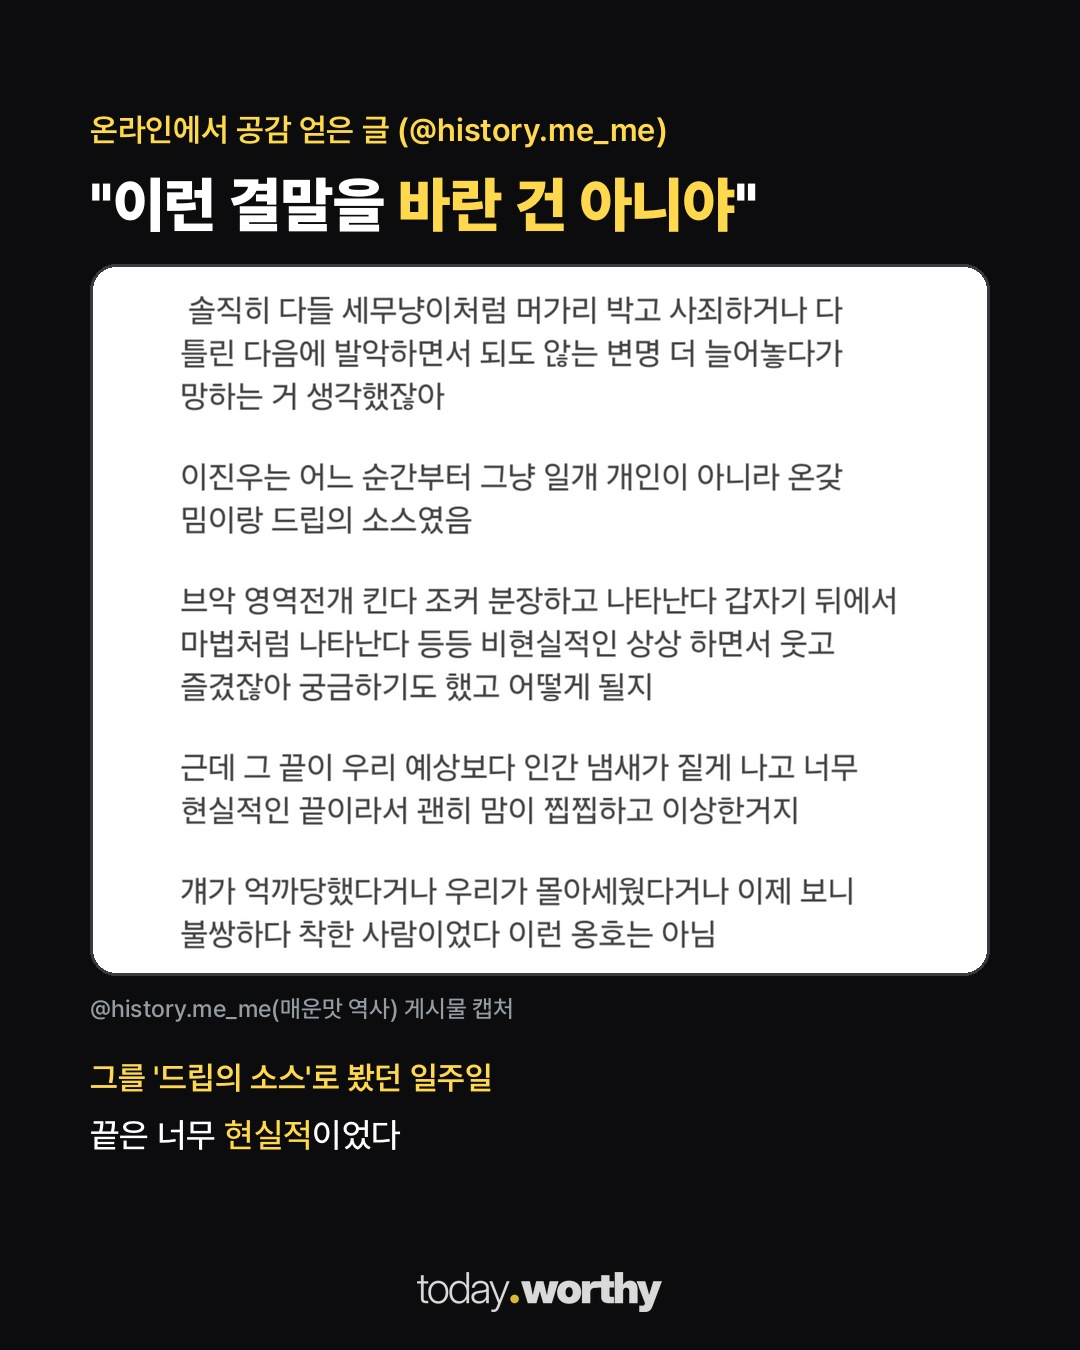
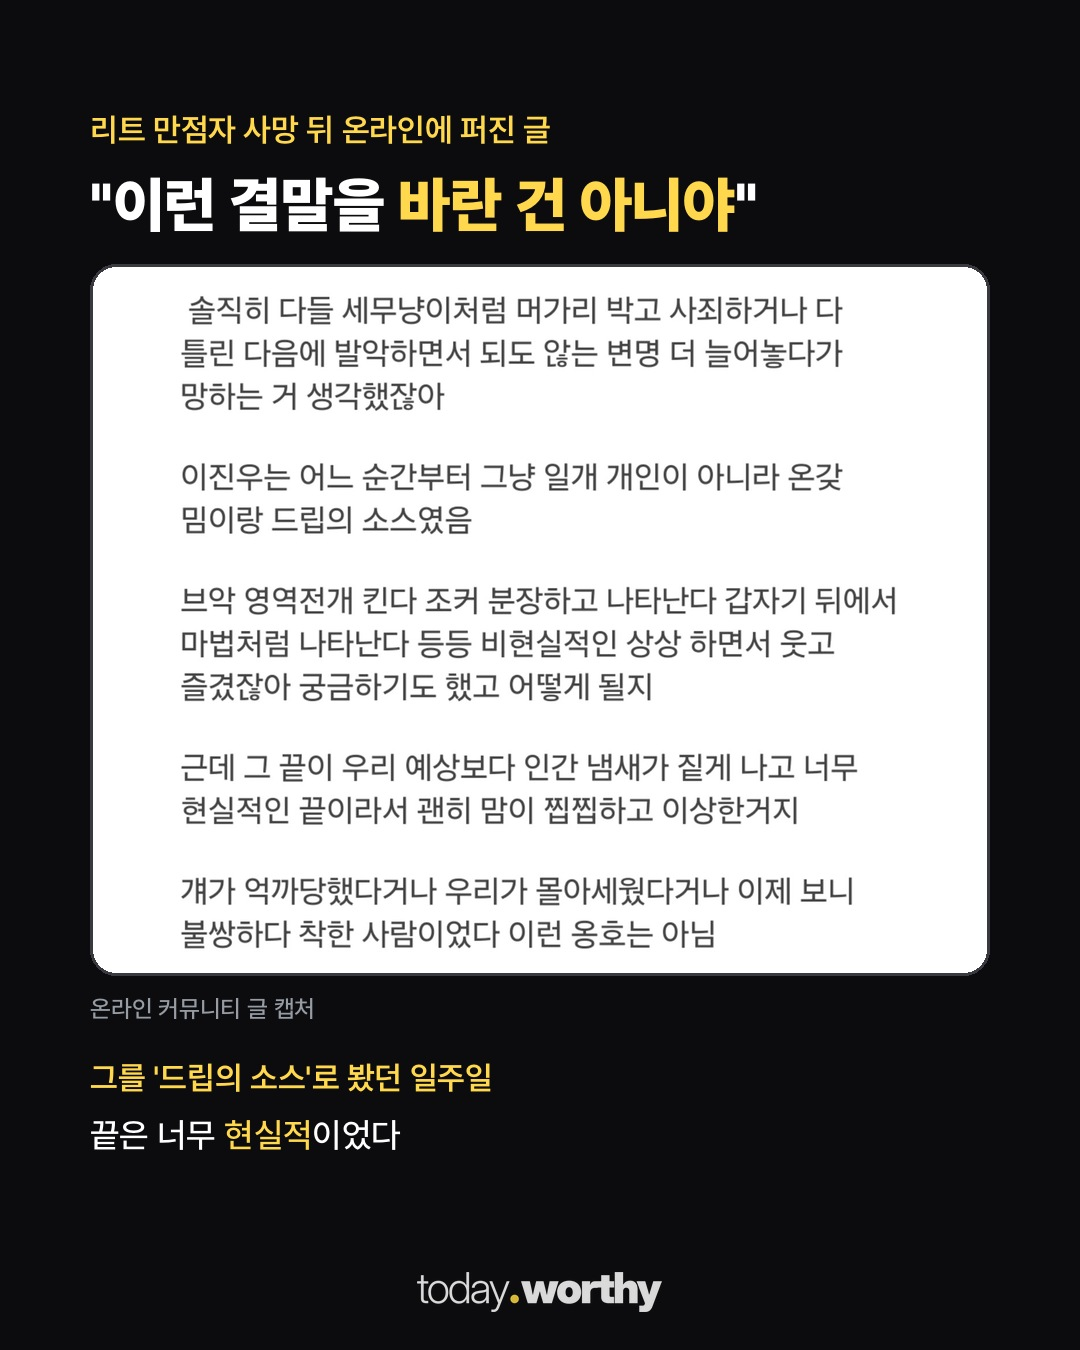
card: leetmeme 2차 출처 표기 제거

diff --git a/media/20261119-leetmeme/build_cards.py b/media/20261119-leetmeme/build_cards.py
@@ -51,9 +51,9 @@ def panel(rows, h=640, gap=None):
 
 
 # 2장: 실제 캡처 카드
-specs = [{"out": str(O / "c02.jpg"), "sub": "온라인에서 공감 얻은 글 (@history.me_me)", "title": "\"이런 결말을 '바란 건 아니야'\"",
+specs = [{"out": str(O / "c02.jpg"), "sub": "리트 만점자 사망 뒤 온라인에 퍼진 글", "title": "\"이런 결말을 '바란 건 아니야'\"",
           "cap": str(O / "cap_hist.jpg"), "cap_max_h": 700, "box_bg": [255, 255, 255],
-          "caption": "@history.me_me(매운맛 역사) 게시물 캡처", "label": "그를 '드립의 소스'로 봤던 일주일",
+          "caption": "온라인 커뮤니티 글 캡처", "label": "그를 '드립의 소스'로 봤던 일주일",
           "lines": ["끝은 너무 '현실적'이었다"]}]
 sp = O / "specs.json"; sp.write_text(json.dumps(specs, ensure_ascii=False))
 subprocess.run([sys.executable, str(R / "scripts/post_cap_card.py"), str(sp)], check=True)
